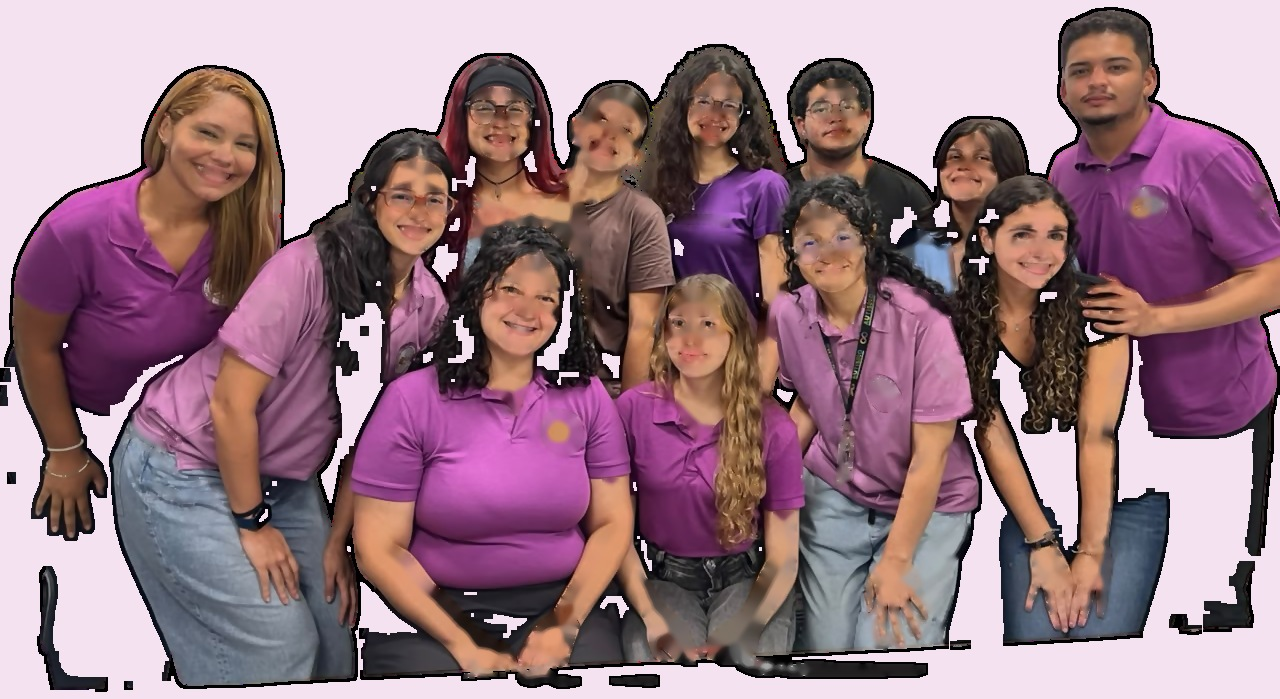
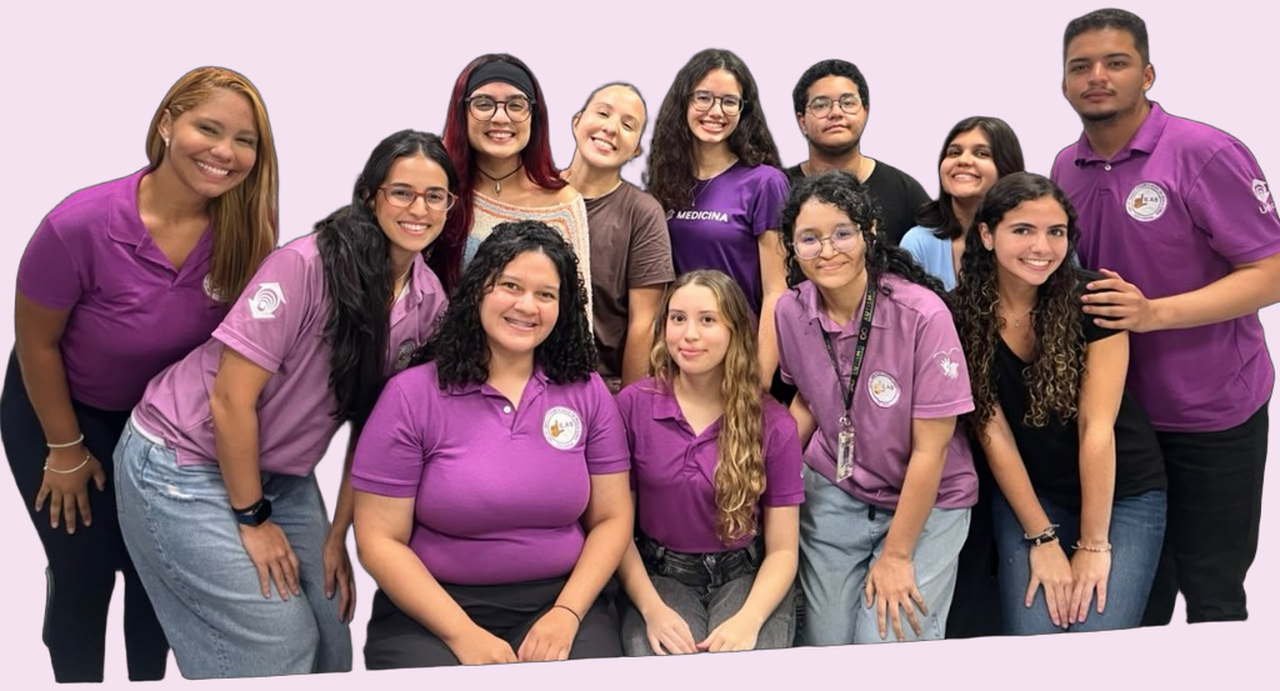
Refaz foto do time com BiRefNet a partir do arquivo enviado pelo usuario.

diff --git a/index.html b/index.html
@@ -10,7 +10,7 @@
   <meta property="og:type" content="website" />
   <meta property="og:image" content="assets/brand/logo.png" />
   <link rel="icon" href="assets/brand/logo.png" type="image/png" />
-  <link rel="preload" as="image" href="assets/brand/team-hero-flat.jpg?v=photo9" />
+  <link rel="preload" as="image" href="assets/brand/team-hero-flat.jpg?v=photo10" />
   <link rel="preconnect" href="https://fonts.googleapis.com" />
   <link rel="preconnect" href="https://fonts.gstatic.com" crossorigin />
   <link href="https://fonts.googleapis.com/css2?family=Fraunces:ital,opsz,wght@0,9..144,500;0,9..144,600;0,9..144,700;1,9..144,500;1,9..144,600&family=Outfit:wght@400;500;600&family=Fredoka:wght@500;600;700&family=Nunito:ital,wght@0,400;0,600;0,700;1,400&display=swap" rel="stylesheet" />
@@ -67,10 +67,10 @@
           <figure class="hero-photo">
             <div class="hero-photo-in">
               <img
-                src="assets/brand/team-hero-flat.jpg?v=photo9"
+                src="assets/brand/team-hero-flat.jpg?v=photo10"
                 alt="Time 2026.2 da LILAS, integrantes com as camisas da liga"
                 width="1280"
-                height="699"
+                height="691"
                 fetchpriority="high"
                 decoding="async"
               />
@@ -160,7 +160,7 @@
         </div>
 
         <figure class="escuta-witness" data-reveal>
-          <img src="assets/brand/team-hero-flat.jpg?v=photo9" alt="Integrantes da LILAS com as camisas lilás da liga" width="1280" height="699" loading="lazy" decoding="async" />
+          <img src="assets/brand/team-hero-flat.jpg?v=photo10" alt="Integrantes da LILAS com as camisas lilás da liga" width="1280" height="691" loading="lazy" decoding="async" />
           <figcaption>O time que carrega essa origem — testemunho, não capa.</figcaption>
         </figure>
       </div>
